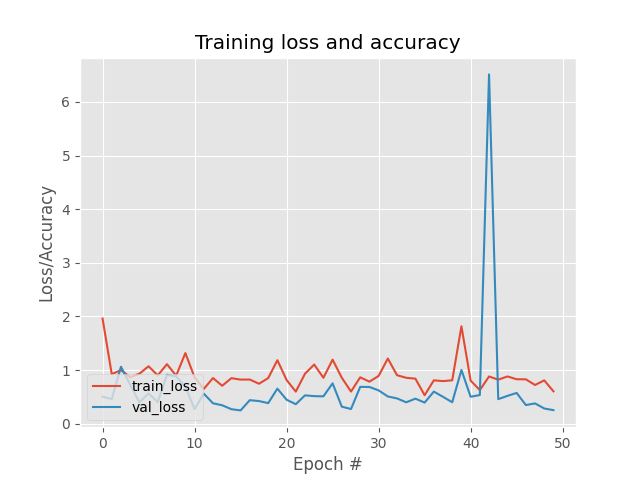
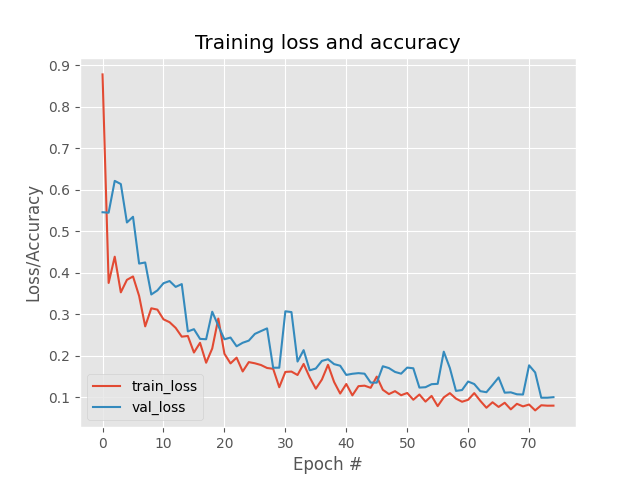
good enough

diff --git a/train_ocr_model.py b/train_ocr_model.py
@@ -6,8 +6,10 @@ from core.az_dataset import load_mnist_dataset
 from core.az_dataset import load_az_dataset
 from tensorflow.keras.preprocessing.image import ImageDataGenerator
 from keras.optimizers import SGD
+from tensorflow.keras.callbacks import LearningRateScheduler
 from sklearn.preprocessing import LabelBinarizer
 from sklearn.model_selection import train_test_split
+from sklearn.utils.class_weight import compute_class_weight
 from sklearn.metrics import classification_report
 from imutils import build_montages
 import numpy as np
@@ -21,8 +23,8 @@ ap.add_argument("-m", "--model", required=True, type=str, help="path to output t
 ap.add_argument("-p", "--plot", type=str, default="plot.png", help="path to output training history file")
 args = vars(ap.parse_args())
 
-EPOCHS = 50
-INIT_LR = 1e-1
+EPOCHS = 75
+INIT_LR = 1e-2
 BS = 128
 
 print("[INFO] Loading datasets")
@@ -44,34 +46,49 @@ le = LabelBinarizer()
 labels = le.fit_transform(labels)
 
 classTotals = labels.sum(axis=0)
-classWeight = {}
 
-for i in range(0, len(classTotals)):
-    classWeight[i] = classTotals.max() / classTotals[i]
+classWeight = compute_class_weight(
+    class_weight="balanced",
+    classes=np.unique(labels.argmax(axis=1)),
+    y=labels.argmax(axis=1)
+)
+classWeight = dict(enumerate(classWeight))
+
 
 (trainX, testX, trainY, testY) = train_test_split(data, labels, test_size=0.20, stratify=labels, random_state=42)
 
 aug = ImageDataGenerator(
-    rotation_range=10,
-    zoom_range=0.05,
-    width_shift_range=0.1,
-    height_shift_range=0.1,
-    shear_range=0.15,
+    rotation_range=5,
+    zoom_range=0.02,
+    width_shift_range=0.05,
+    height_shift_range=0.05,
+    shear_range=0.05,
     horizontal_flip=False,
     fill_mode="nearest")
 
 print("[INFO] Compiling model")
-opt = SGD(learning_rate=INIT_LR, weight_decay=INIT_LR / EPOCHS)
+opt = SGD(learning_rate=INIT_LR, momentum=0.9)
 model = ResNet.build(32, 32, 1, len(le.classes_), (3, 3, 3), (64, 64, 128, 256), reg=0.0005)
 model.compile(loss="categorical_crossentropy", optimizer=opt, metrics=["accuracy"])
 
 print("[INFO] Training network")
+
+def poly_decay(epoch):
+    maxEpochs = EPOCHS
+    baseLR = INIT_LR
+    power = 1.0
+    alpha = baseLR * (1 - (epoch / float(maxEpochs))) ** power
+    return alpha
+
+lr_scheduler = LearningRateScheduler(poly_decay)
+
 H = model.fit(
     aug.flow(trainX, trainY, batch_size=BS),
     validation_data=(testX, testY),
     steps_per_epoch=len(trainX) // BS,
     epochs=EPOCHS,
     class_weight=classWeight,
+    callbacks=[lr_scheduler],
     verbose=1)
 
 labelNames = "0123456789"
